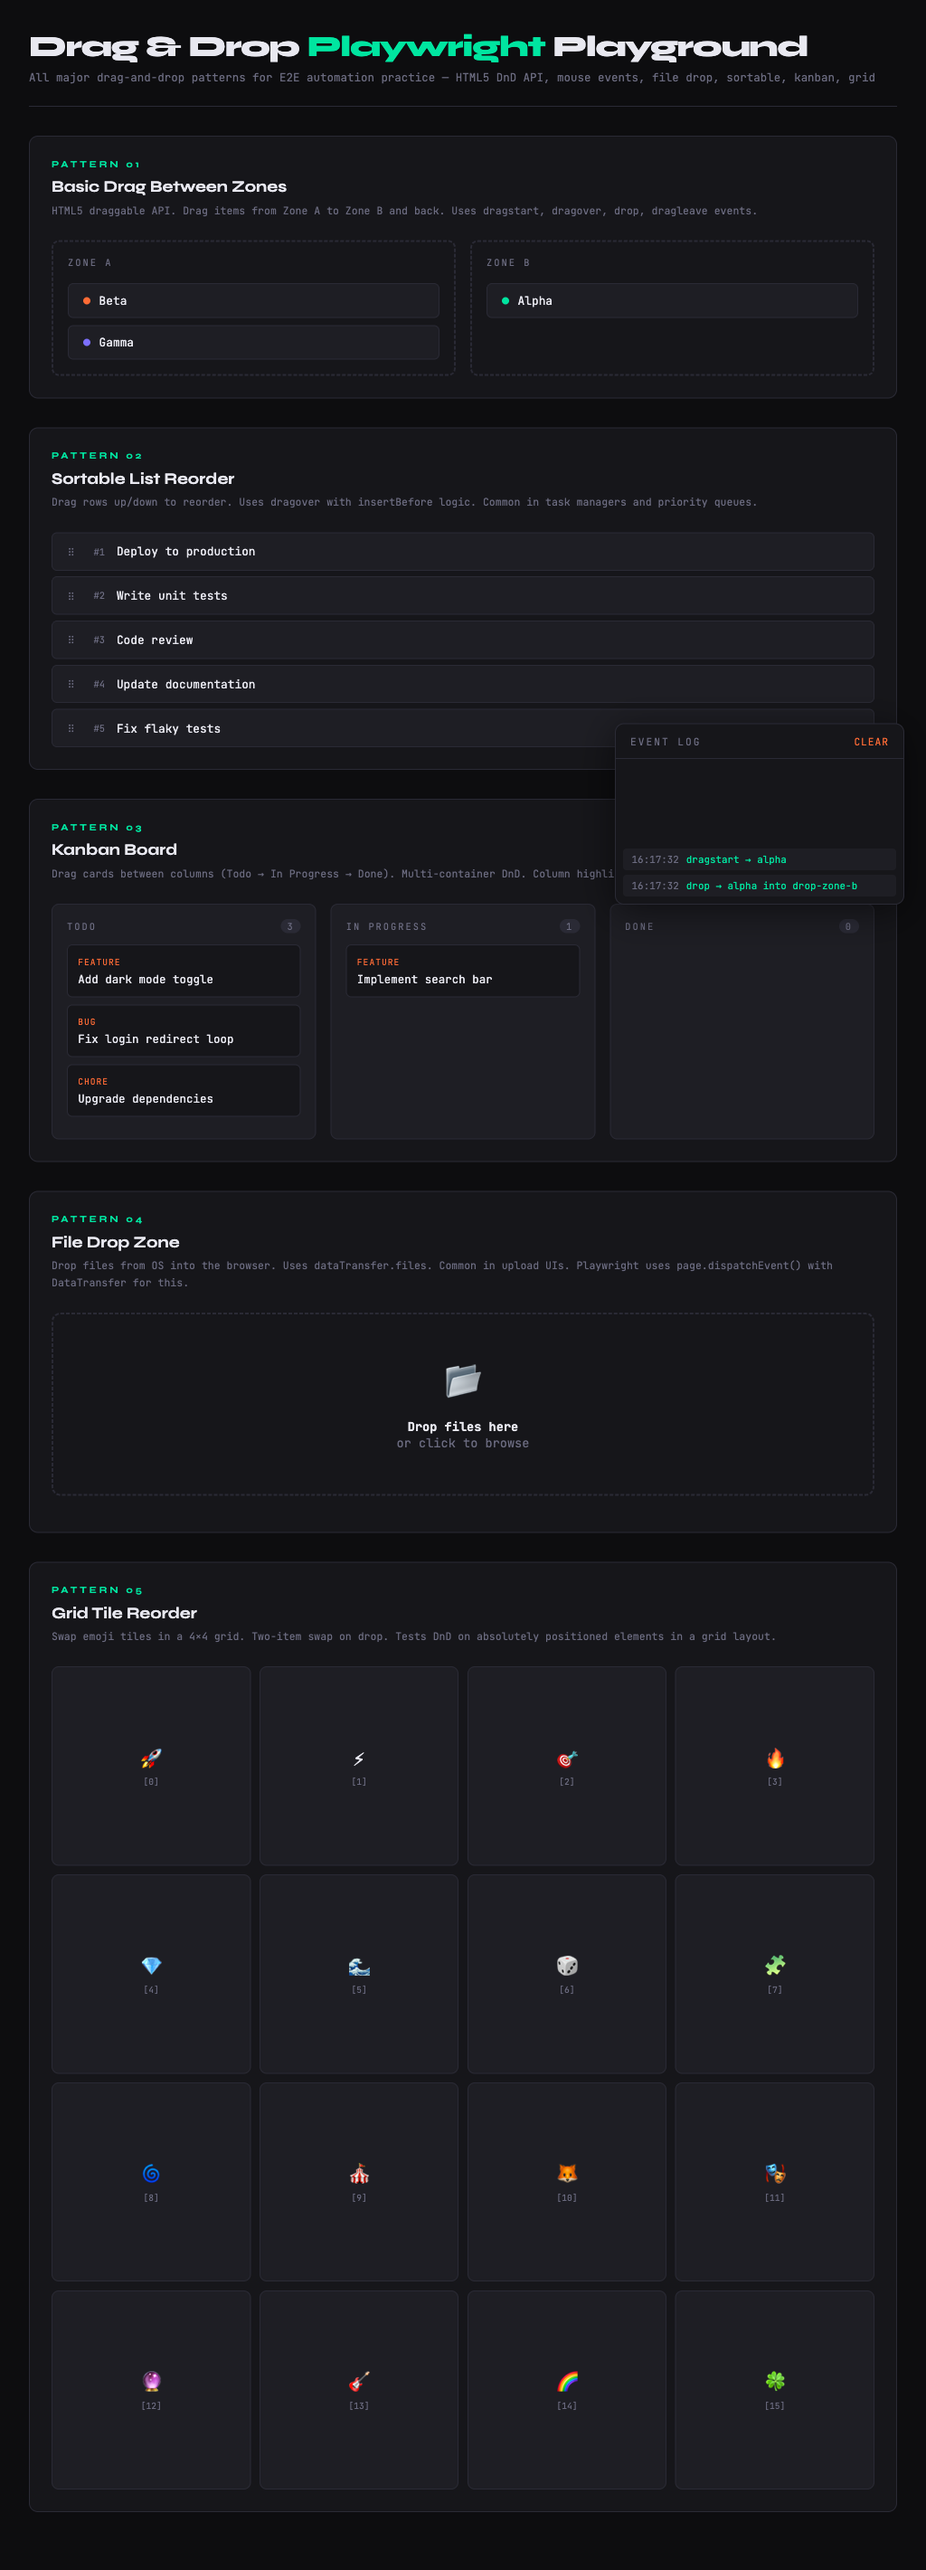
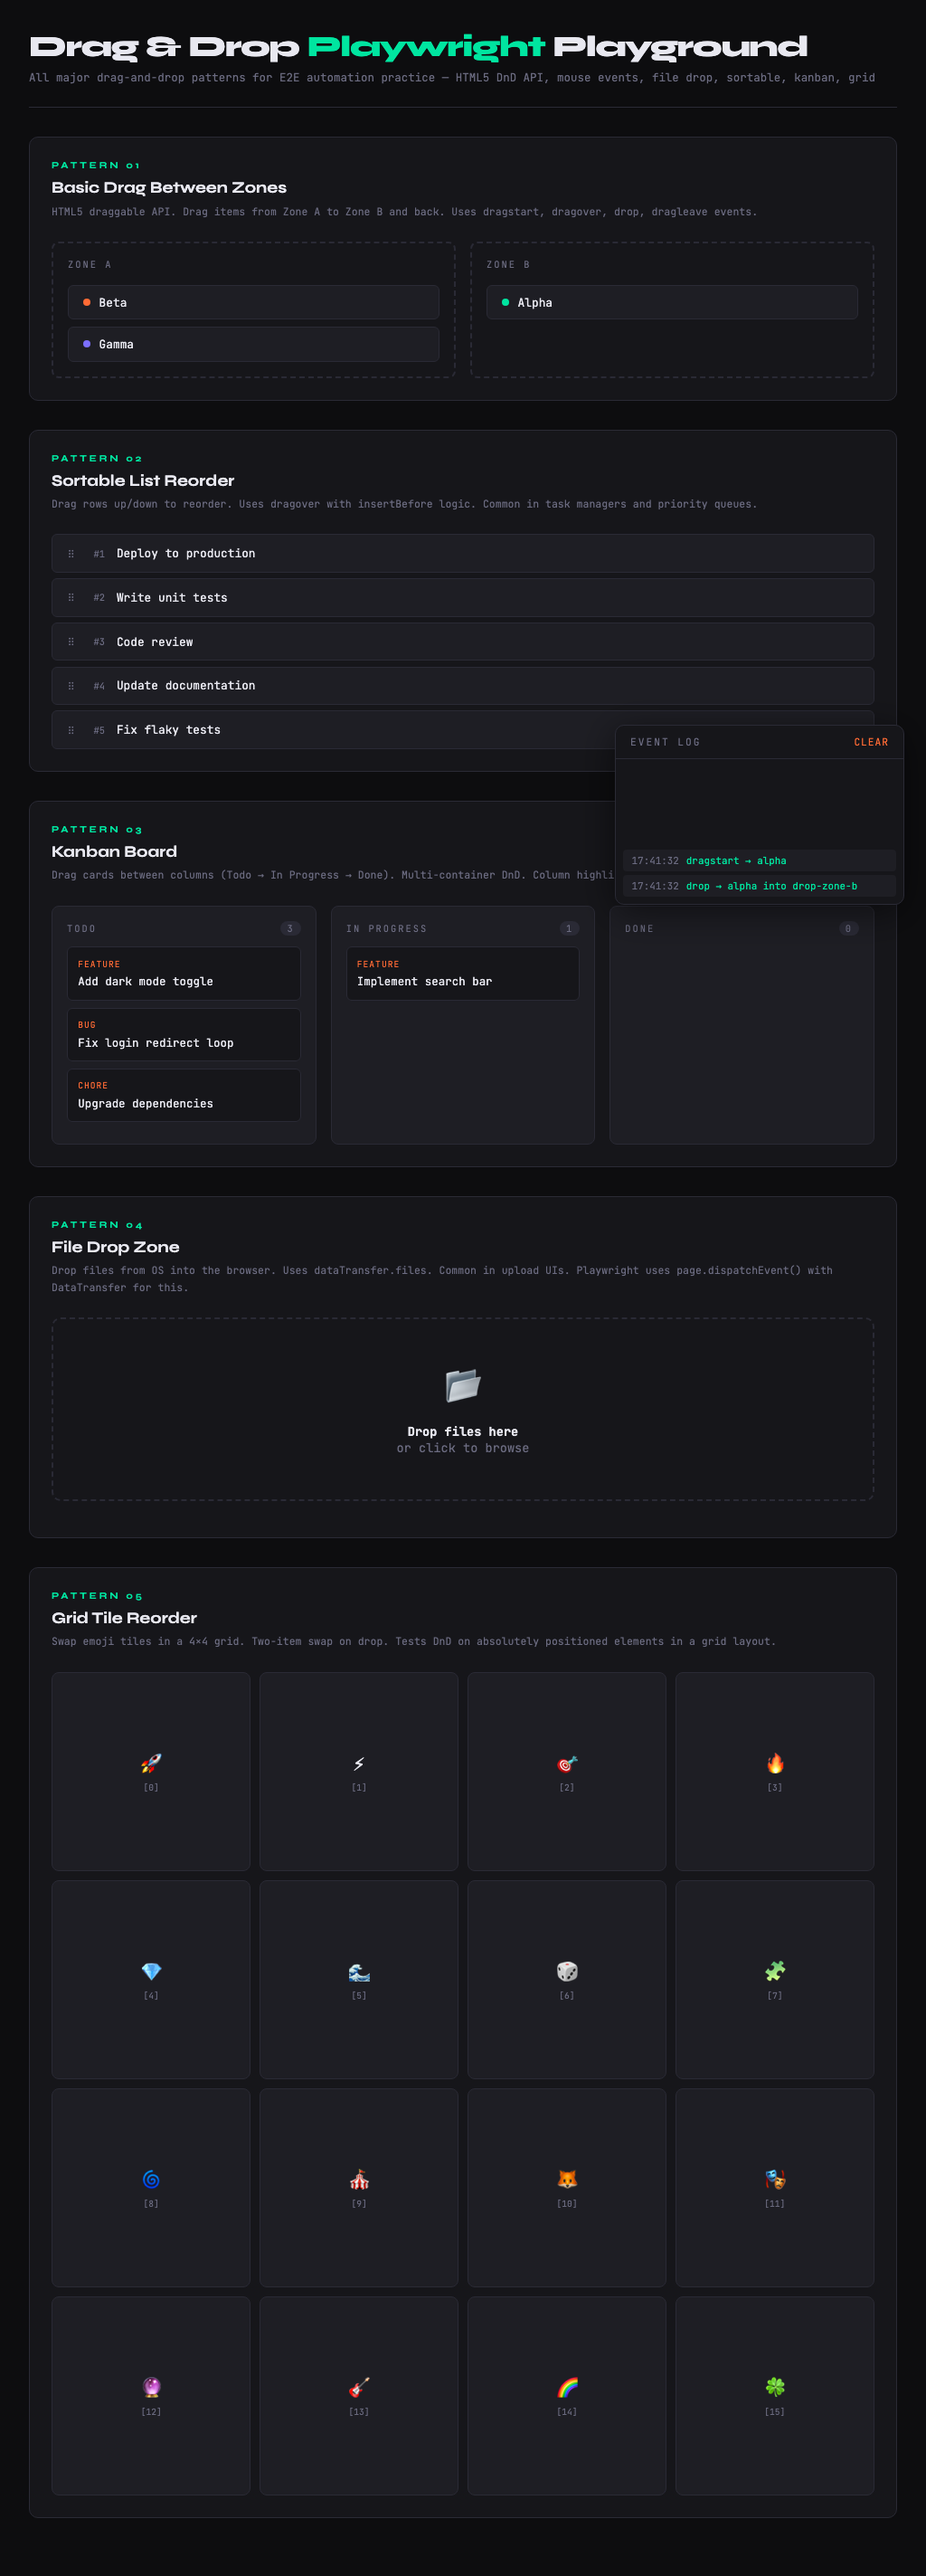
made changes to structure

diff --git a/src/main/java/tests/Tabs.java b/src/main/java/tests/Tabs.java
@@ -2,6 +2,9 @@ package tests;
 
 import com.microsoft.playwright.Page;
 import manager.execution.BaseClass;
+import manager.playwright.PageManager;
+import org.testng.annotations.AfterClass;
+import org.testng.annotations.AfterSuite;
 import org.testng.annotations.BeforeClass;
 import org.testng.annotations.Test;
 import util.ConfigReader;
@@ -13,6 +16,7 @@ public class Tabs extends BaseClass{
 
     @BeforeClass
     public void beforeClass(){
+       page= PageManager.getPage();
         page.navigate("/pages/tabs.html");
     }
 
@@ -28,12 +32,13 @@ public class Tabs extends BaseClass{
         Page named=page.context().waitForPage(()->page.getByTestId("btn-named-window").click());
         named.setViewportSize(ConfigReader.getIntegerConfig("SCREEN_WIDTH"),ConfigReader.getIntegerConfig("SCREEN_HEIGHT"));
         page.bringToFront();
+        named.close();
+        onePage.close();
         ScreenshotUtil.screenshot(page);
 
 
 
     }
-
 
 
     }

diff --git a/src/main/java/tests/QAElements.java b/src/main/java/tests/QAElements.java
@@ -3,6 +3,7 @@ package tests;
 import com.microsoft.playwright.Locator;
 import com.microsoft.playwright.Page;
 import manager.execution.BaseClass;
+import org.testng.annotations.AfterClass;
 import org.testng.annotations.BeforeClass;
 import org.testng.annotations.Test;
 import manager.playwright.PageManager;
@@ -11,10 +12,10 @@ import util.Util;
 public class QAElements extends BaseClass {
 
 
-    Page page = null;
 
     @BeforeClass
     public void beforeClass() {
+        page=PageManager.getPage();
         page.navigate("/pages/a.html");
     }
 
@@ -61,4 +62,7 @@ public class QAElements extends BaseClass {
         page.locator("button[data-testid='btn-modal-open']").scrollIntoViewIfNeeded();
         page.locator("button[data-testid=btn-modal-open]").click();
         page.locator("button[data-testid=modal-confirm]").click();
-}}
+}
+
+
+}

diff --git a/src/main/java/tests/Forms.java b/src/main/java/tests/Forms.java
@@ -4,6 +4,8 @@ import com.microsoft.playwright.Locator;
 import com.microsoft.playwright.Page;
 import com.microsoft.playwright.options.AriaRole;
 import manager.execution.BaseClass;
+import org.testng.annotations.AfterClass;
+import org.testng.annotations.AfterSuite;
 import org.testng.annotations.BeforeClass;
 import org.testng.annotations.Test;
 import manager.playwright.PageManager;
@@ -16,7 +18,8 @@ public class Forms extends BaseClass {
 
     int id=12;
     @BeforeClass
-    public void getPage(){
+    public void beforeClass(){
+        page=PageManager.getPage();
        page.navigate("pages/forms.html");
     }
 
@@ -54,4 +57,6 @@ time.press("Control+A");
         }
 
     }
+
+
 }

diff --git a/src/main/java/manager/execution/BaseClass.java b/src/main/java/manager/execution/BaseClass.java
@@ -12,24 +12,24 @@ import org.testng.annotations.BeforeTest;
 
 public class BaseClass {
 
-    protected  Page page=null;
+    protected  Page page;
+
+
 
     @BeforeSuite
     public void beforeSuite(){
+        System.out.println("Running Before Suite");
         PlaywrightProvider.getPlaywright();
-
-    }
-
-    @BeforeTest
-    public void beforeTest(){
         BrowserFactory.getBrowser();
         ContextManager.createContext();
         page=PageManager.getPage();
     }
 
 
+
 @AfterSuite
     public void afterSuite(){
+    System.out.println("Running After Suite");
         PageManager.closePage();
         ContextManager.closeContext();
         BrowserFactory.closeBrowser();

diff --git a/src/main/java/tests/ShadowDOM.java b/src/main/java/tests/ShadowDOM.java
@@ -2,6 +2,7 @@ package tests;
 
 import com.microsoft.playwright.Page;
 import manager.execution.BaseClass;
+import org.testng.annotations.AfterClass;
 import org.testng.annotations.BeforeClass;
 import org.testng.annotations.Test;
 import manager.playwright.PageManager;
@@ -9,13 +10,17 @@ import manager.playwright.PageManager;
 public class ShadowDOM extends BaseClass {
 
 
-    Page page=null;
+
     @BeforeClass
     public void beforeClass(){
+        page=PageManager.getPage();
         page.navigate("pages/shadow-dom.html");
     }
 @Test
     public void shadowDom(){
         page.locator("#shadowInput").fill("new");
     }
+
+
+
 }

diff --git a/src/main/java/tests/DargAndDrop.java b/src/main/java/tests/DargAndDrop.java
@@ -3,6 +3,7 @@ package tests;
 import com.microsoft.playwright.Locator;
 import com.microsoft.playwright.Page;
 import manager.execution.BaseClass;
+import org.testng.annotations.AfterClass;
 import org.testng.annotations.BeforeClass;
 import org.testng.annotations.Test;
 import manager.playwright.PageManager;
@@ -10,10 +11,13 @@ import util.Util;
 
 public class DargAndDrop extends BaseClass{
 
+
     @BeforeClass
     public  void beforeClass(){
+page=PageManager.getPage();
         page.navigate("pages/drag-drop.html");
     }
+
 
     @Test
     public void dragAndDrop(){

diff --git a/src/main/java/tests/Alerts.java b/src/main/java/tests/Alerts.java
@@ -2,6 +2,7 @@ package tests;
 
 import com.microsoft.playwright.Page;
 import manager.execution.BaseClass;
+import org.testng.annotations.AfterClass;
 import org.testng.annotations.BeforeClass;
 import org.testng.annotations.Test;
 import manager.playwright.PageManager;
@@ -13,8 +14,10 @@ public class Alerts  extends BaseClass {
     int id=1;
     @BeforeClass
     public void beforeClass(){
-       page.navigate("pages/alerts.html");
+        page= PageManager.getPage();
+        page.navigate("pages/alerts.html");
     }
+
 
 
     @Test
